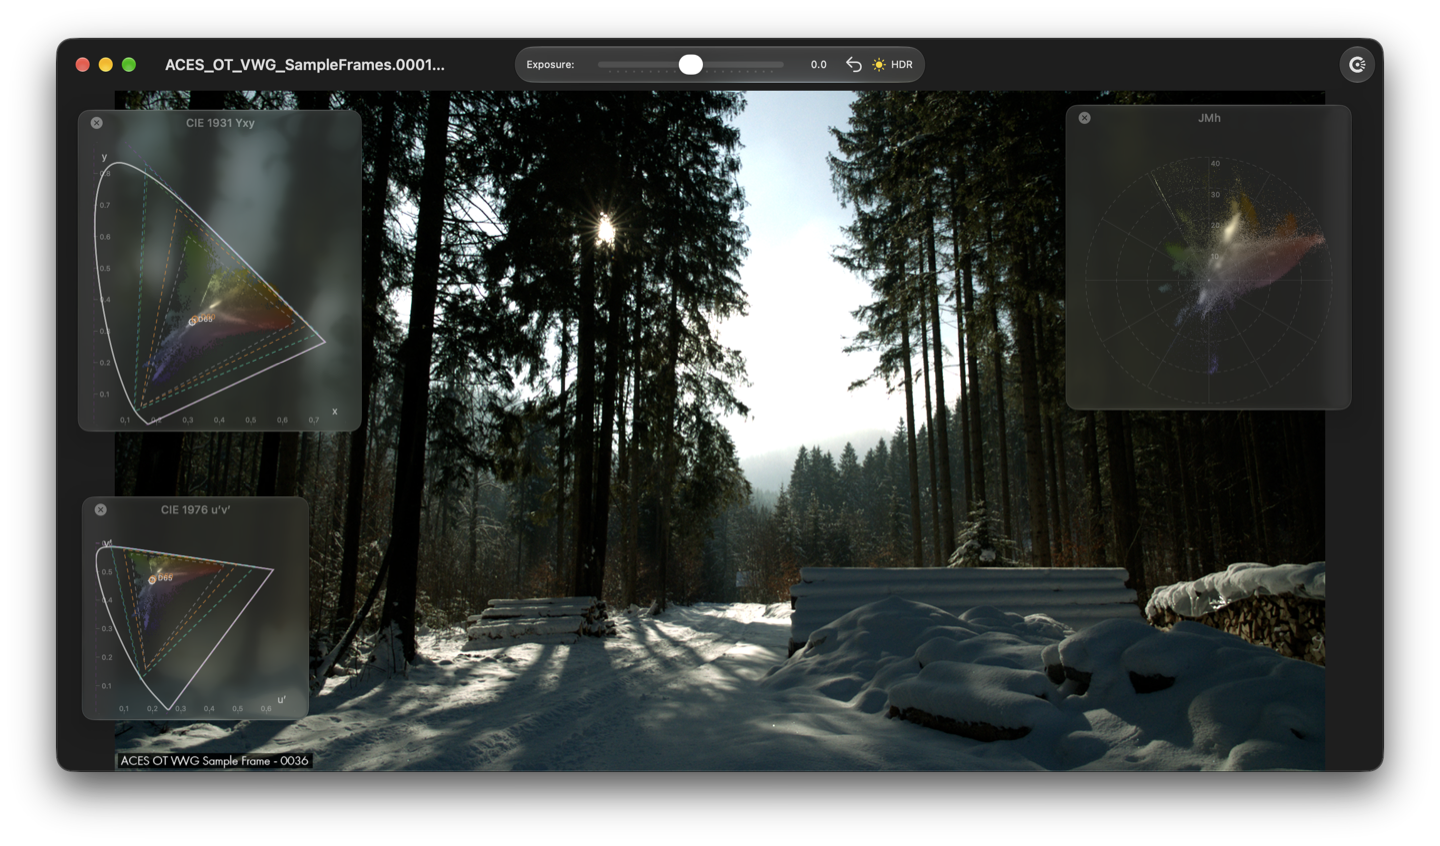
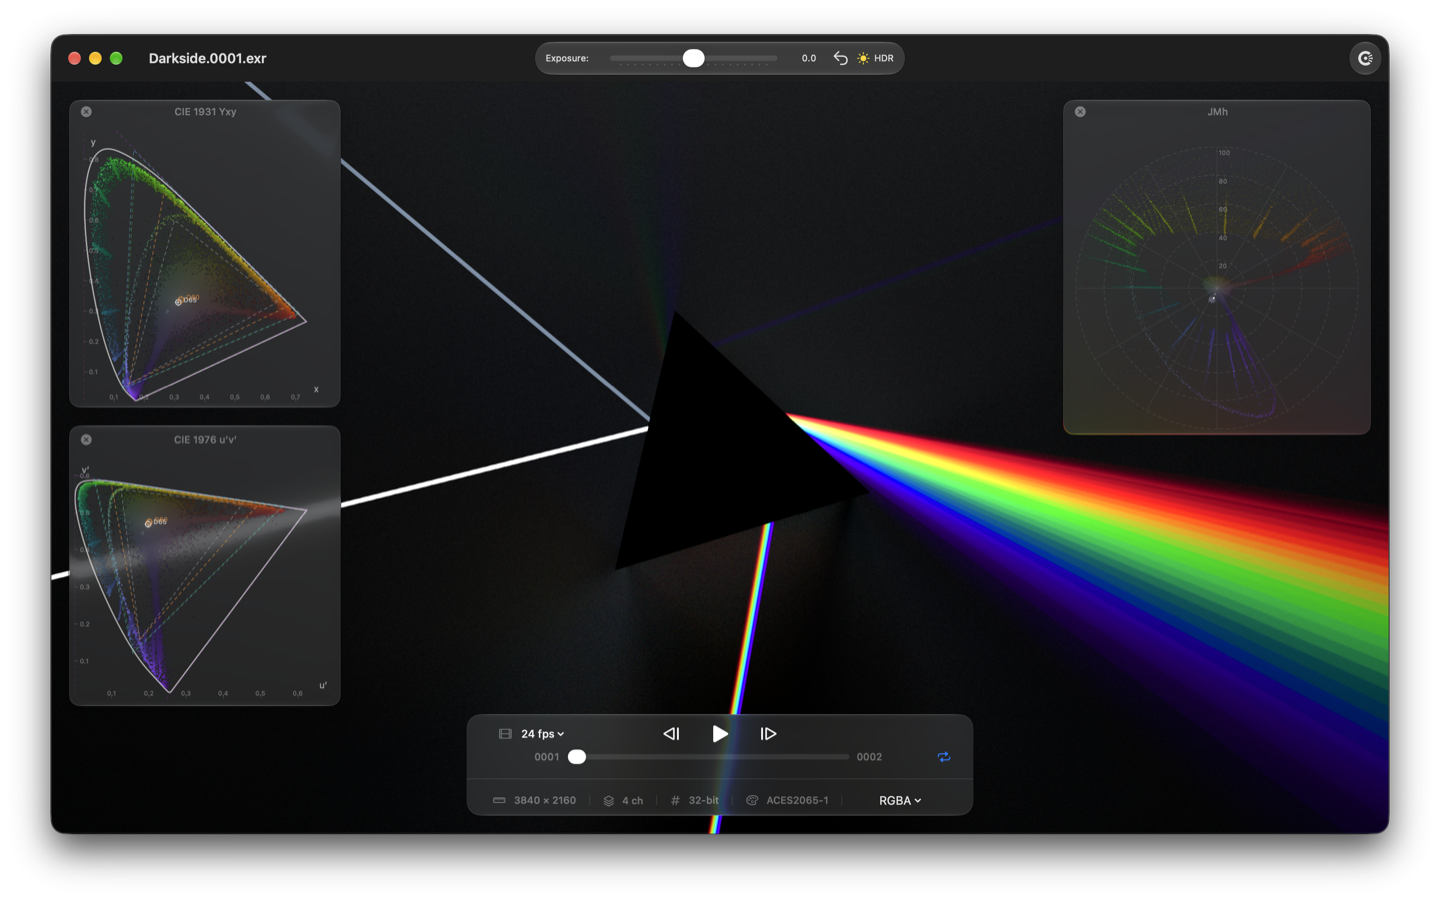
Update README screenshot
Replace docs/images/screenshot.png with a new capture (1440 px wide, alpha kept) and update its alt text.

diff --git a/README.md b/README.md
@@ -9,7 +9,7 @@
 </p>
 
 <p align="center">
-  <img src="docs/images/screenshot.png" alt="Tristimulator showing an ACES sample frame with CIE 1931 Yxy, CIE 1976 u'v' and JMh chromaticity diagrams over the image" width="720">
+  <img src="docs/images/screenshot.png" alt="Tristimulator playing an image sequence, with CIE 1931 Yxy, CIE 1976 u'v' and JMh chromaticity diagrams over the image" width="720">
 </p>
 
 ## Features
